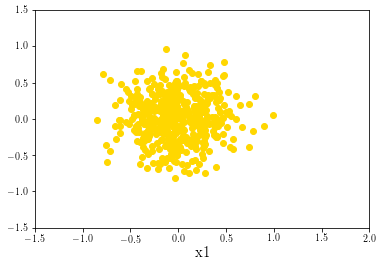
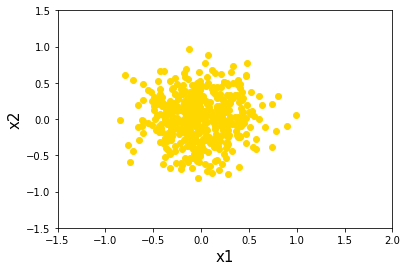
slightly fixed 2018-02-19

diff --git a/_posts/2018-02-19-building-scratch.md b/_posts/2018-02-19-building-scratch.md
@@ -63,13 +63,14 @@ data_zeros = sort_data[sort_data[:,2] == 0]
 ```python
 plt.scatter(data_ones[:,0],data_ones[:,1],c='gold')
 plt.xlabel('x1',fontsize = 15)
+plt.ylabel('x2',fontsize = 15)
 plt.xlim((-1.5,2))
 plt.ylim((-1.5,1.5))
 plt.show()
 ```
 
 
-![Fig 1]({{https://github.com/tnightengale/tnightengale.github.io/blob/master/assets/output_8_0.png}}/assets/output_8_0.png)
+![Fig 2]({{https://github.com/tnightengale/tnightengale.github.io/blob/master/assets/output_8_0.png}}/assets/output_8_0.png)
 
 
 
@@ -82,7 +83,7 @@ plt.show()
 ```
 
 
-![Fig 1]({{https://github.com/tnightengale/tnightengale.github.io/blob/master/assets/output_9_0.png}}/assets/output_9_0.png)
+![Fig 3]({{https://github.com/tnightengale/tnightengale.github.io/blob/master/assets/output_9_0.png}}/assets/output_9_0.png)
 
 
 Traditional linear classifiers like LDA and logistic regression struggle with irregular data patterns such as these but simple neural networks are relatively good at these types of classifaction. Let's get started building our network.
@@ -358,7 +359,7 @@ $$
 \cdot\frac{\partial\mathbf{Z}^{[l]}}{\partial\mathbf{b}^{[l]}}
 $$
 
-Let's define our backward propagation function:
+Calculating these partials can be pretty tricky; in a future post I will show how I derived the derrivative equations used in the backward propagation algorithm below:
 
 
 ```python
@@ -448,7 +449,7 @@ def train_model(layer_list,X,Y,learning_rate,iterations):
     
     parameters = init_parameters(X, layer_list)
     
-    cost = 10 # set arbitrary cost < 10
+    cost = 1 # set arbitrary cost =< 1
     
     for iteration in range(1,iterations):
         
@@ -459,6 +460,9 @@ def train_model(layer_list,X,Y,learning_rate,iterations):
         dParam_dict = backward_pass(parameters,Y,Z_dict,A_dict)
         
         parameters = update_values(parameters, dParam_dict, learning_rate)
+        
+        if iteration in [1,2,3]:
+            print('Iteration {}. Old cost is {}. Cost is {}.'.format(iteration,old_cost,cost))
             
         if(not iteration % 1000):
             print('Iteration {}. Old cost is {}. Cost is {}.'.format(iteration,old_cost,cost))
@@ -500,9 +504,12 @@ Let's now train our model using our `training_layers` and `training_set`:
 
 ```python
 np.random.seed(1)
-predict_parameters = train_model(training_layers,training_set,training_y,learning_rate = 0.0005, iterations = 10001)
+predict_parameters = train_model(training_layers,training_set,y_training_set,learning_rate = 0.0005, iterations = 10001)
 ```
 
+    Iteration 1. Old cost is 1. Cost is 0.7915907142286972.
+    Iteration 2. Old cost is 0.7915907142286972. Cost is 0.7287529925292927.
+    Iteration 3. Old cost is 0.7287529925292927. Cost is 0.6985418397541265.
     Iteration 1000. Old cost is 0.2314235697387047. Cost is 0.2314120460386395.
     Iteration 2000. Old cost is 0.22881880114984401. Cost is 0.2288287806352107.
     Iteration 3000. Old cost is 0.22662889790263158. Cost is 0.22663308811353614.
@@ -515,7 +522,7 @@ predict_parameters = train_model(training_layers,training_set,training_y,learnin
     Iteration 10000. Old cost is 0.21973503835360483. Cost is 0.2202900280690912.
 
 
-We can see that even after `Iteration 500` the cost function has declined to `0.2367...`. After this point the marginal decline in the cost function from each iteration is reduced. We should be cautious about continuing with more iterations after this point as our parameters $\mathbf{W}$ and $\mathbf{b}$ may be overfitted to our `training set`. Let's also generate a set of parameters based on fewer iterations and then we will be able to compare which set of parameters better predict our test set. This will indicate if perhaps our first set of parameters based on 10000 iterations was somewhat overfit to our training data.
+We can see that even after `Iteration 1000` the cost function has declined to `0.2314...`. After this point the marginal decline in the cost function from each iteration is reduced. We should be cautious about continuing with more iterations after this point as our parameters $\mathbf{W}$ and $\mathbf{b}$ may be overfitted to our `training set`. Let's also generate a set of parameters based on fewer iterations and then we will be able to compare which set of parameters better predict our test set. This will indicate if perhaps our first set of parameters based on 10000 iterations was somewhat overfit to our training data.
 
 
 ```python
@@ -523,6 +530,9 @@ np.random.seed(1)
 early_stop_predict_parameters = train_model(training_layers,training_set,y_training_set,learning_rate = 0.0005, iterations = 1001)
 ```
 
+    Iteration 1. Old cost is 1. Cost is 0.7915907142286972.
+    Iteration 2. Old cost is 0.7915907142286972. Cost is 0.7287529925292927.
+    Iteration 3. Old cost is 0.7287529925292927. Cost is 0.6985418397541265.
     Iteration 1000. Old cost is 0.2314235697387047. Cost is 0.2314120460386395.
 
 
@@ -584,6 +594,15 @@ print('The early stop model has a cost value of {}'.format(np.reshape(early_cost
     The early stop model has a cost value of 0.25496517602411756 and an accuracy ratio of 0.875.
 
 
-We can see that our early stop parameters yielded a lower cost function value when applied to our holdout test data, but since we are classifying our continuous prediction outputs as either `0` or `1` it makes little difference as both sets of parameters yield the same model accuracy. It does suggest that for this dataset and this type of model, the accuracy is essentially capped at 87.5%. Any further training iterations would likely overfit the model to the training data.
+We can see that our early stop parameters yielded a lower cost function value when applied to our holdout test data, but since we are classifying our continuous prediction outputs as either `0` or `1` it makes little difference as both sets of parameters yield the same model accuracy. Any further training iterations would likely overfit the model to the training data. Variables such as the number of layer and nodes, the `learning_rate`, and the number of iterations are referred to as *hyperparameters*. Our result suggests that for this dataset and these hyperparameters, the accuracy is essentially capped at 87.5%. However it's certainly possible to tune hyperparameters to yield better predictive models. In a future post I will delve into how we can systematically optimize these hyperparameters.
+
+## 5. Conclusion
+
+Let's recap what we learned:
+1. A deep neural network can be a good tool to predict labels in non-linear data.
+2. The network uses the forward and backward propagation algorithms to adjust the weight matrices and bias vectors at each layer of the network.
+3. As the weights and biases are tuned, the cost function approaches a minimum.
+4. If the model is trained on a given set of data for too many iterations, it can become very good at predicting the labels of the data it was trained on, to the detriment of predicting other samples of holdout or test data. This issue is called *overfitting*.
+5. An *early stop* of fewer iterations might yield a model with better predictive accuracy for other holdout or test data.
 
 Thanks for reading!
